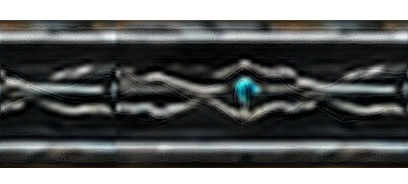
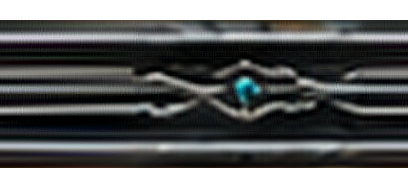
feat(hud): empty target wings + tileable rail R + inner diamonds (final mockup-agent pieces), wing slots capped at 4 (count.hud.strip.wing.max), ability cooldown text in the lower 70 % (clear of the key)

diff --git a/src/RuneSkin/Hud/StripMath.cs b/src/RuneSkin/Hud/StripMath.cs
@@ -43,6 +43,7 @@ namespace RuneSkin.PlayerHud
             public float FoodSize, PotionSize; // wing slot sides in that mode (target: round 52 px / square 53 px; 0 = Cell)
             public float CellsDX;        // cell row offset inside the hotbar block (target: the left pad is narrower)
             public float AbilityCell;    // ability cell side (target: 63 px vs the 59 px hotbar cell; 0 = Cell)
+            public int WingMax;          // slots per wing at most (user 2026-10-23: 0..4; 0 = no cap)
             public int Hotbar, Abilities, Food, Potions;
         }
 
@@ -145,6 +146,7 @@ namespace RuneSkin.PlayerHud
             var stop = o.BarsX - i.ConnW / 2f;
             var pitch = fc + g;
             var max = pitch > 0f ? Math.Max(0, (int)Math.Floor((stop - start + g) / pitch)) : 0;
+            if (i.WingMax > 0) max = Math.Min(max, i.WingMax);
             o.FoodMax = max;
             o.FoodShown = Math.Min(i.Food, max);
             o.FoodCell = fc;
@@ -154,6 +156,7 @@ namespace RuneSkin.PlayerHud
             var ps = i.PotionStart > 0f ? i.PotionStart : start;
             var pg = i.PotionGap > 0f ? i.PotionGap : g;
             var pmax = pc + pg > 0f ? Math.Max(0, (int)Math.Floor((i.Width - ps - (o.BarsX + o.BarsW + i.ConnW / 2f) + pg) / (pc + pg))) : 0;
+            if (i.WingMax > 0) pmax = Math.Min(pmax, i.WingMax);
             o.PotionMax = pmax;
             o.PotionShown = Math.Min(i.Potions, pmax);
             o.PotionCell = o.PotionH = pc;

diff --git a/src/RuneSkin/Hud/StripCell.cs b/src/RuneSkin/Hud/StripCell.cs
@@ -162,8 +162,8 @@ namespace RuneSkin.PlayerHud
             Box(_count.rectTransform, inset, inset * 0.8f, w - 2f * inset, h * 0.5f);
             if (timerBelow) // food: in the band under the disc (never over the ring)
                 Box(_timer.rectTransform, 0f, 0f, w, band > 0f ? band : ThemeTokens.GetFloat("size.hud.strip.timer", 18f));
-            else
-                Box(_timer.rectTransform, 0f, 0f, w, h);
+            else // cooldowns: the lower 70 % of the cell, clear of the key label (top-left)
+                Box(_timer.rectTransform, 0f, 0f, w, h * 0.7f);
             var line = ThemeTokens.GetFloat("size.hud.strip.dur.line", 5f);
             var dr = _durTrack.rectTransform;
             dr.anchorMin = dr.anchorMax = dr.pivot = Vector2.zero;

diff --git a/src/RuneSkin/Hud/HudStrip.cs b/src/RuneSkin/Hud/HudStrip.cs
@@ -231,6 +231,7 @@ namespace RuneSkin.PlayerHud
                 FoodSize = ThemeTokens.GetFloat("size.hud.strip.food.size", 0f),
                 CellsDX = ThemeTokens.GetFloat("size.hud.strip.cells.dx", 0f),
                 AbilityCell = ThemeTokens.GetFloat("size.hud.strip.ability.cell", 0f),
+                WingMax = (int)ThemeTokens.GetFloat("count.hud.strip.wing.max", 0f),
                 PotionSize = ThemeTokens.GetFloat("size.hud.strip.potion.size", 0f),
                 GrowFromEnds = ThemeTokens.GetFloat("mode.hud.strip.wing.grow", 0f) > 0.5f,
                 FoodCell = cell,
